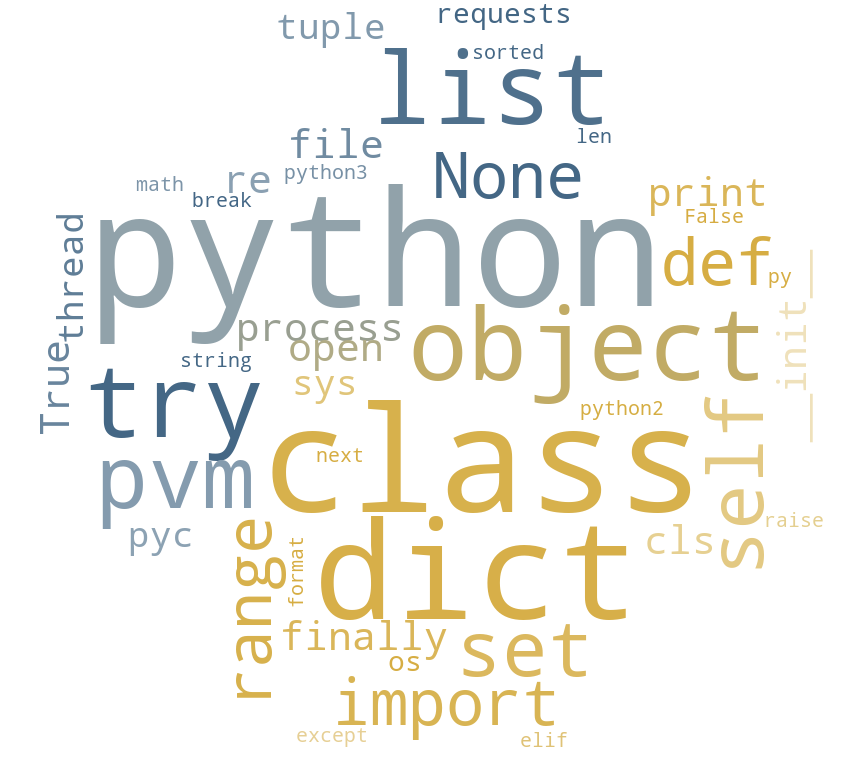
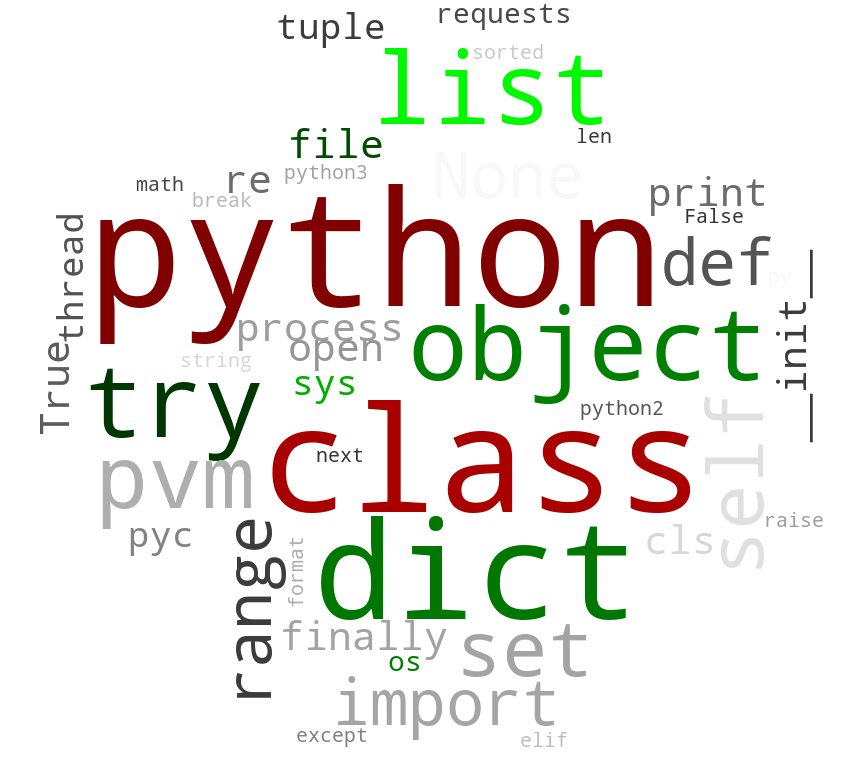
wordcloudgen_two change font color as you like

diff --git a/src/wordcloudgen_two.py b/src/wordcloudgen_two.py
@@ -1,0 +1,94 @@
+#encoding=utf-8
+
+import os
+from os import path
+from PIL import Image
+import numpy as np
+import matplotlib.pyplot as plt
+
+from wordcloud import WordCloud, STOPWORDS, ImageColorGenerator,get_single_color_func
+
+
+class GroupedColorFunc(object):
+    """Create a color function object which assigns DIFFERENT SHADES of
+       specified colors to certain words based on the color to words mapping.
+
+       Uses wordcloud.get_single_color_func
+
+       Parameters
+       ----------
+       color_to_words : dict(str -> list(str))
+         A dictionary that maps a color to the list of words.
+
+       default_color : str
+         Color that will be assigned to a word that's not a member
+         of any value from color_to_words.
+    """
+
+    def __init__(self, color_to_words, default_color):
+        self.color_func_to_words = [
+            (get_single_color_func(color), set(words))
+            for (color, words) in color_to_words.items()]
+
+        self.default_color_func = get_single_color_func(default_color)
+
+    def get_color_func(self, word):
+        """Returns a single_color_func associated with the word"""
+        try:
+            color_func = next(
+                color_func for (color_func, words) in self.color_func_to_words
+                if word in words)
+        except StopIteration:
+            color_func = self.default_color_func
+
+        return color_func
+
+    def __call__(self, word, **kwargs):
+        return self.get_color_func(word)(word, **kwargs)
+
+
+
+# Read the whole text.
+workdir=os.getcwd()
+text = open(workdir+'/wordcollections.txt').read()
+
+#read mask picure,词云默认是矩形的，本代码采用图片作为蒙版
+
+maskimage=np.array(Image.open(workdir+'/pythonpng.png'))
+
+# 设置停用词,即过滤掉不希望出现在词云上的词
+stopwords = set(STOPWORDS)
+stopwords.add("new")
+
+#创建wc对象，mask参数指定了词云形状
+wc = WordCloud(scale=4,background_color="white", max_words=2000, mask=maskimage,
+               stopwords=stopwords, max_font_size=40, random_state=42)
+
+# generate word cloud
+wc.generate(text)
+
+#自定义单词的颜色
+color_to_words = {
+    # words below will be colored with a green single color function
+    '#00ff00': ['file', 'try', 'list', 'sparse',
+                'os', 'object', 'dict',
+                'sys'],
+    # will be colored with a red single color function
+    'red': ['python', 'class', 'complex', 'complicated', 'nested',
+            'if', 'special', 'errors']
+}
+
+#不属于上述设定的颜色词的词语会用灰色来着色
+default_color = 'grey'
+# Create a color function with multiple tones
+grouped_color_func = GroupedColorFunc(color_to_words, default_color)
+
+
+wc.recolor(color_func=grouped_color_func)
+#显示、保存词云
+#plt.imshow(wc)
+#plt.axis("off") 
+#plt.show()
+wc.to_file('result.png') 
+
+
